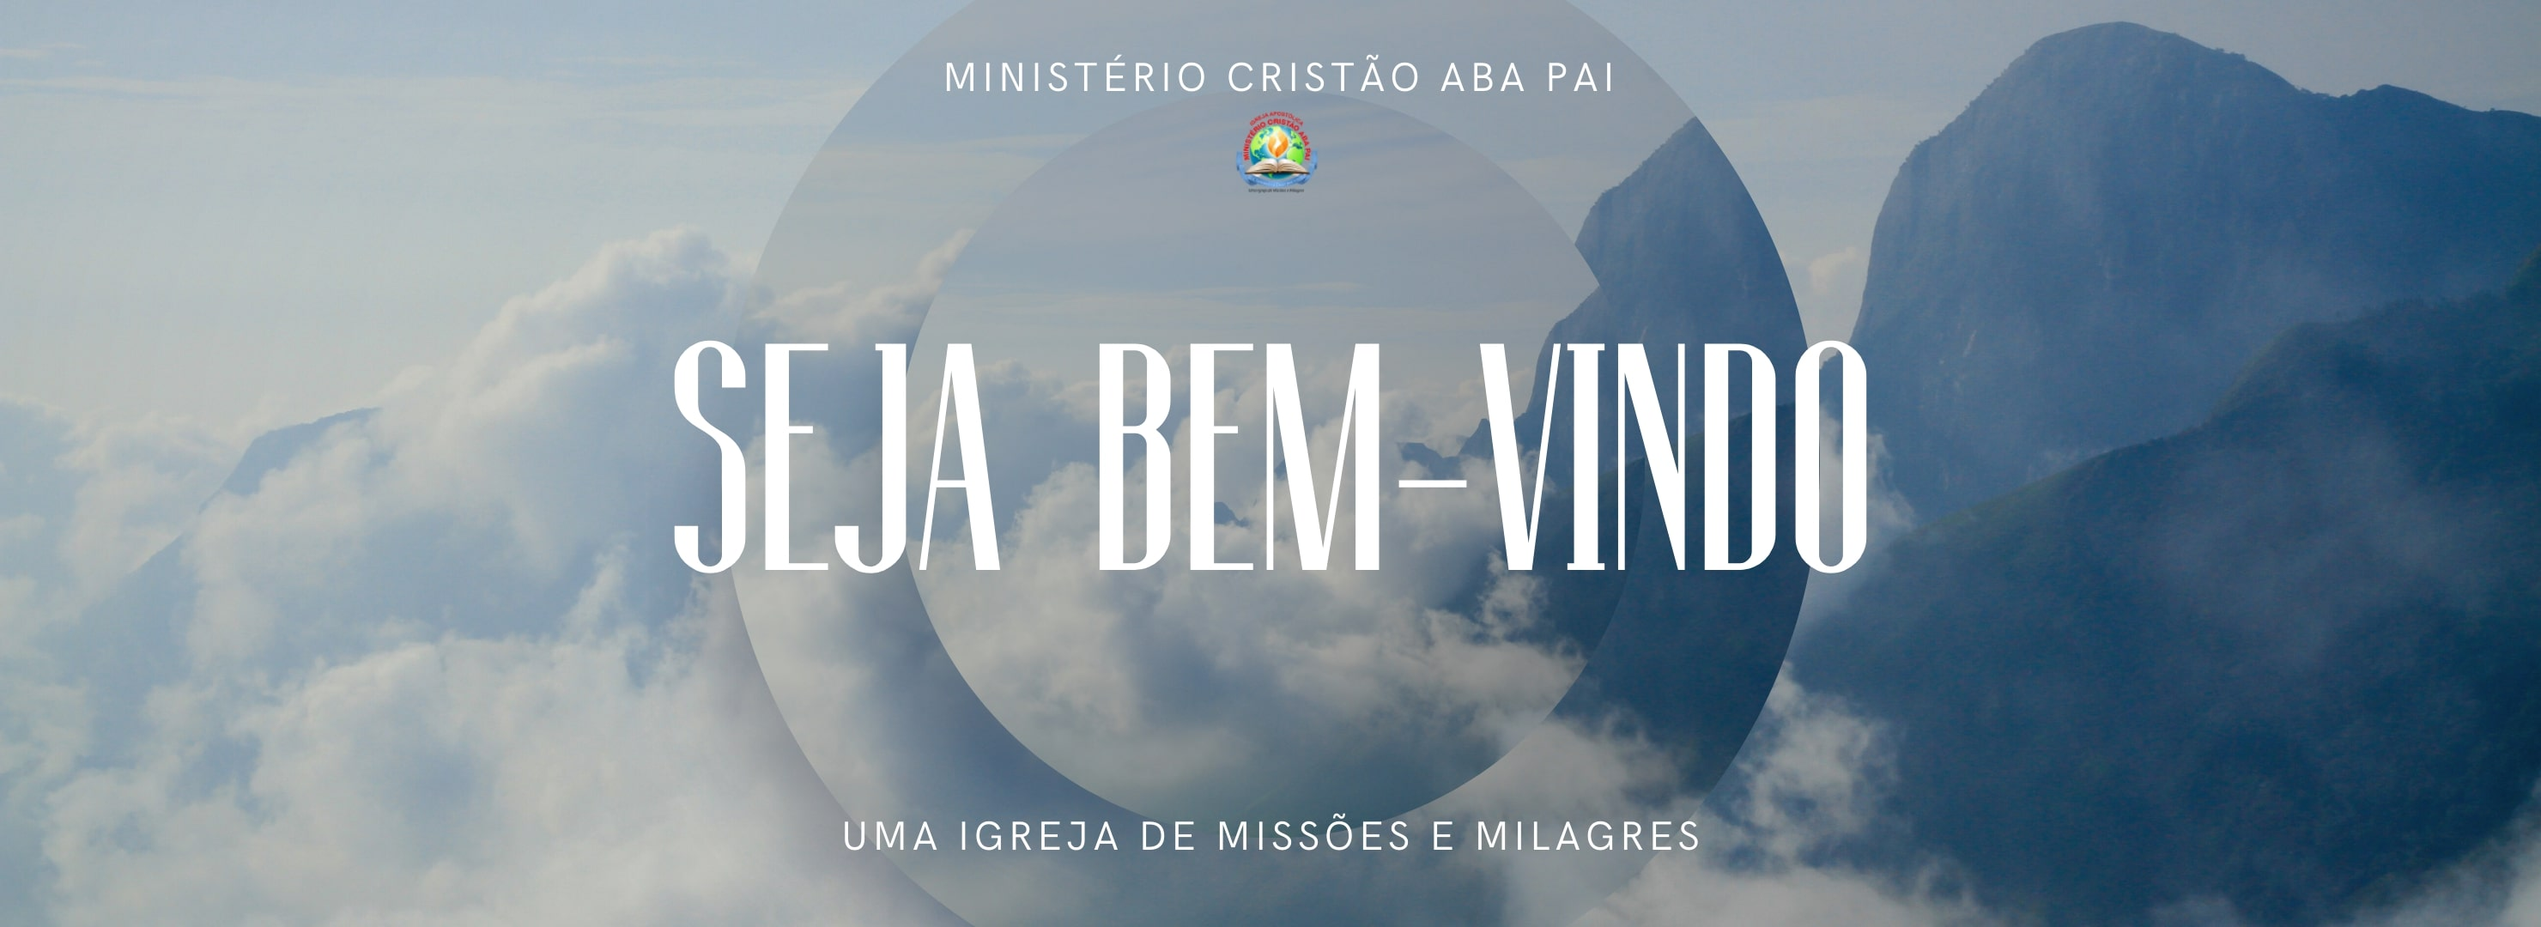
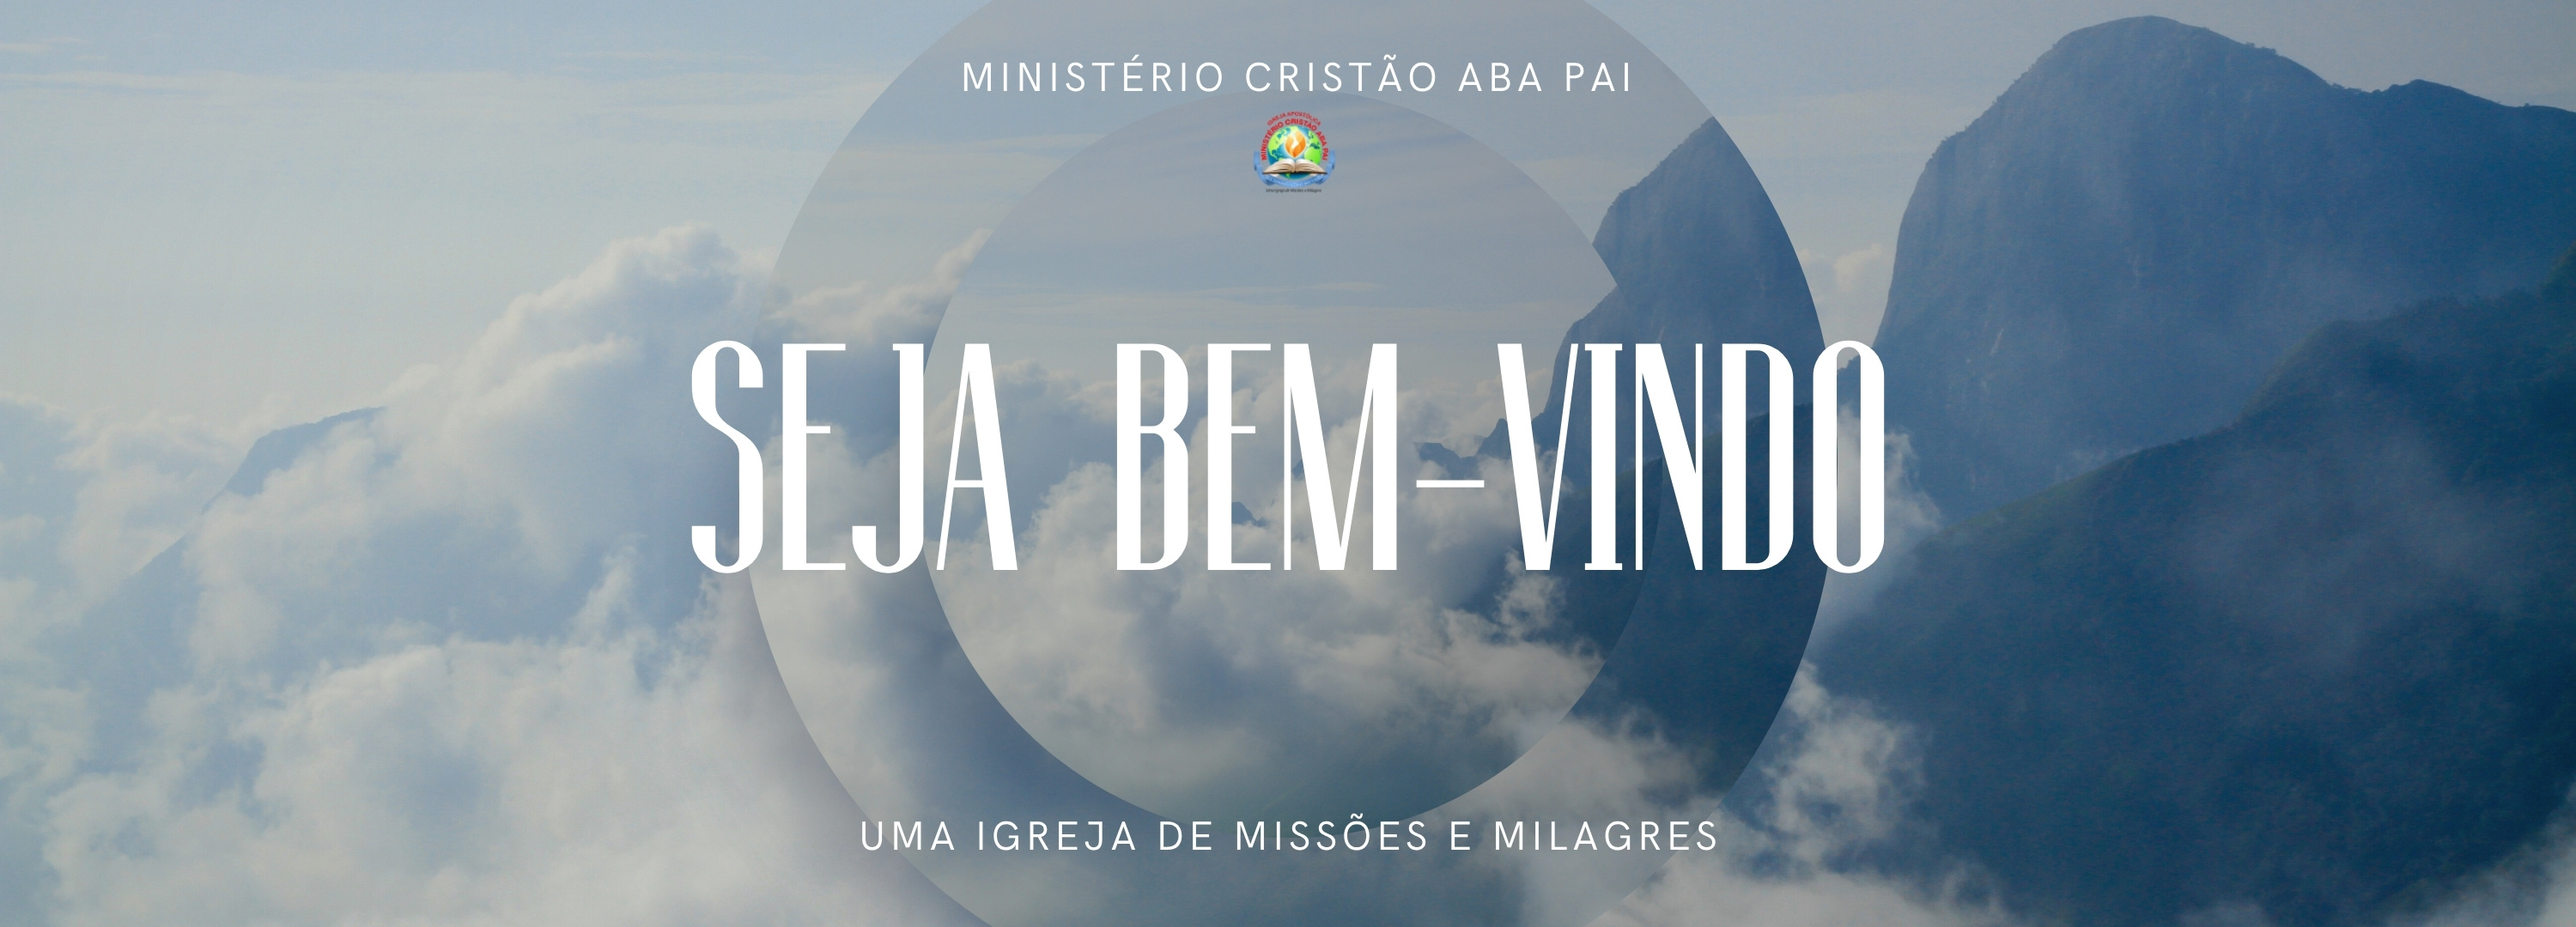
feat: customize carousel images

diff --git a/src/app/pages/home/carousel/carousel.component.ts b/src/app/pages/home/carousel/carousel.component.ts
@@ -1,11 +1,100 @@
-import { Component, CUSTOM_ELEMENTS_SCHEMA } from '@angular/core';
+import { Component, CUSTOM_ELEMENTS_SCHEMA, OnInit, inject } from '@angular/core';
+import { ActivatedRoute } from '@angular/router';
+import { CommonModule } from '@angular/common';
+import { CarouselImage } from '../../../services/carousel.service';
 
 @Component({
     selector: 'app-carousel',
     standalone: true,
-    imports: [],
+    imports: [CommonModule],
     templateUrl: './carousel.component.html',
     styleUrl: './carousel.component.scss',
     schemas: [CUSTOM_ELEMENTS_SCHEMA],
 })
-export class CarouselComponent {}
+export class CarouselComponent implements OnInit {
+    images: CarouselImage[] = [];
+
+    loading = true;
+
+    error = '';
+
+    private route = inject(ActivatedRoute);
+
+    private dragStartTime = 0;
+
+    private dragStartX = 0;
+
+    private dragStartY = 0;
+
+    private isDragging = false;
+
+    ngOnInit(): void {
+        // Check if data was resolved during SSR
+        const resolved = this.route.snapshot.data['carouselImages'] as
+            | CarouselImage[]
+            | undefined;
+        if (resolved) {
+            this.images = resolved;
+            this.loading = false;
+        } else {
+            this.loadCarouselImages();
+        }
+    }
+
+    private loadCarouselImages(): void {
+        // This would be used if no SSR data is available
+        // For now, we'll use the resolved data
+        this.loading = false;
+    }
+
+    onImageMouseDown(image: CarouselImage, event: MouseEvent): void {
+        this.dragStartTime = Date.now();
+        this.dragStartX = event.clientX;
+        this.dragStartY = event.clientY;
+        this.isDragging = false;
+    }
+
+    onImageTouchStart(image: CarouselImage, event: TouchEvent): void {
+        this.dragStartTime = Date.now();
+        this.dragStartX = event.touches[0].clientX;
+        this.dragStartY = event.touches[0].clientY;
+        this.isDragging = false;
+    }
+
+    onImageMouseUp(image: CarouselImage, event: MouseEvent): void {
+        this.handleClickOrDrag(image, event.clientX, event.clientY);
+    }
+
+    onImageTouchEnd(image: CarouselImage, event: TouchEvent): void {
+        if (event.changedTouches.length > 0) {
+            this.handleClickOrDrag(
+                image,
+                event.changedTouches[0].clientX,
+                event.changedTouches[0].clientY,
+            );
+        }
+    }
+
+    private handleClickOrDrag(image: CarouselImage, endX: number, endY: number): void {
+        const dragDuration = Date.now() - this.dragStartTime;
+        const dragDistance = Math.sqrt(
+            Math.pow(endX - this.dragStartX, 2) + Math.pow(endY - this.dragStartY, 2),
+        );
+
+        // Consider it a click if:
+        // 1. Duration is less than 300ms (quick interaction)
+        // 2. Distance moved is less than 10px (minimal movement)
+        // 3. Not already detected as dragging
+        const isClick = dragDuration < 300 && dragDistance < 10 && !this.isDragging;
+
+        if (isClick && image && image.linkUrl) {
+            this.openLink(image.linkUrl);
+        }
+    }
+
+    openLink(url: string): void {
+        if (url) {
+            window.open(url, '_blank');
+        }
+    }
+}

diff --git a/src/app/pages/home/carousel/carousel.component.html b/src/app/pages/home/carousel/carousel.component.html
@@ -1,25 +1,59 @@
-<swiper-container
-  style="
-    --swiper-navigation-color: #fff;
-    --swiper-navigation-size: 25px;
-    --swiper-navigation-sides-offset: 25px;
-  "
-  loop="true"
-  navigation="true"
-  pagination="true"
-  autoplay-delay="6000"
-  autoplay-disable-on-interaction="false"
->
-  <swiper-slide>
-    <div
-      class="slider-item"
-      style="background-image: url('assets/capa_welcome_wide.jpg')"
-    ></div>
-  </swiper-slide>
-  <swiper-slide>
-    <div
-      class="slider-item"
-      style="background-image: url('assets/tvabapaibanner2.jpg')"
-    ></div>
-  </swiper-slide>
-</swiper-container>
+<div>
+  <div *ngIf="loading" class="text-center py-8">
+    <p>Carregando carrossel...</p>
+  </div>
+
+  <div *ngIf="error" class="text-center py-8 text-red-600">
+    <p>{{ error }}</p>
+  </div>
+
+  <swiper-container
+    *ngIf="!loading && !error"
+    style="
+      --swiper-navigation-color: #fff;
+      --swiper-navigation-size: 25px;
+      --swiper-navigation-sides-offset: 25px;
+    "
+    loop="true"
+    navigation="true"
+    pagination="true"
+    autoplay-delay="6000"
+    autoplay-disable-on-interaction="false"
+    allow-touch-move="true"
+    touch-start-prevent-default="false"
+  >
+    <swiper-slide *ngFor="let image of images; let i = index">
+      <div
+        class="slider-item"
+        [style.background-image]="'url(' + image.imageUrl + ')'"
+        [class.cursor-pointer]="image.linkUrl"
+        (mousedown)="onImageMouseDown(image, $event)"
+        (mouseup)="onImageMouseUp(image, $event)"
+        (touchstart)="onImageTouchStart(image, $event)"
+        (touchend)="onImageTouchEnd(image, $event)"
+      ></div>
+    </swiper-slide>
+  </swiper-container>
+
+  <!-- Fallback to static images if no dynamic images are available -->
+  <swiper-container
+    *ngIf="!loading && !error && images.length === 0"
+    style="
+      --swiper-navigation-color: #fff;
+      --swiper-navigation-size: 25px;
+      --swiper-navigation-sides-offset: 25px;
+    "
+    loop="true"
+    navigation="true"
+    pagination="true"
+    autoplay-delay="6000"
+    autoplay-disable-on-interaction="false"
+  >
+    <swiper-slide>
+      <div
+        class="slider-item"
+        style="background-image: url('assets/capa_welcome_wide.jpg')"
+      ></div>
+    </swiper-slide>
+  </swiper-container>
+</div>

diff --git a/src/app/services/carousel.service.ts b/src/app/services/carousel.service.ts
@@ -1,0 +1,61 @@
+import {
+    Injectable,
+    inject,
+    PLATFORM_ID,
+    TransferState,
+    makeStateKey,
+} from '@angular/core';
+import { HttpClient } from '@angular/common/http';
+import { isPlatformServer } from '@angular/common';
+import { Observable, of } from 'rxjs';
+import { shareReplay, tap } from 'rxjs/operators';
+import { environment } from '../shared/environments/environment';
+
+export interface CarouselImage {
+    id: number;
+    imageUrl: string;
+    linkUrl?: string;
+    position: number;
+    isActive: boolean;
+    createdAt: string;
+    updatedAt: string;
+}
+
+@Injectable({
+    providedIn: 'root',
+})
+export class CarouselService {
+    private http = inject(HttpClient);
+    private transferState = inject(TransferState);
+    private platformId = inject(PLATFORM_ID);
+    private apiUrl = environment.clientApiBaseUrl;
+    private STATE_KEY = makeStateKey<CarouselImage[]>('carousel_images');
+
+    private images$?: Observable<CarouselImage[]>;
+
+    getImages(): Observable<CarouselImage[]> {
+        if (this.images$) return this.images$;
+
+        const cached = this.transferState.get(
+            this.STATE_KEY,
+            null as unknown as CarouselImage[] | null,
+        );
+        if (cached) {
+            this.transferState.remove(this.STATE_KEY);
+            this.images$ = of(cached).pipe(shareReplay(1));
+            return this.images$;
+        }
+
+        this.images$ = this.http
+            .get<CarouselImage[]>(`${this.apiUrl}/carousel-images`)
+            .pipe(
+                tap((images) => {
+                    if (isPlatformServer(this.platformId)) {
+                        this.transferState.set(this.STATE_KEY, images);
+                    }
+                }),
+                shareReplay(1),
+            );
+        return this.images$;
+    }
+}

diff --git a/src/app/pages/home/whatsapp-button/whatsapp-button.component.ts b/src/app/pages/home/whatsapp-button/whatsapp-button.component.ts
@@ -1,5 +1,6 @@
 import { CommonModule } from '@angular/common';
-import { Component } from '@angular/core';
+import { Component, OnInit, inject } from '@angular/core';
+import { WebsiteSettingsService } from '../../../services/website-settings.service';
 
 @Component({
     selector: 'app-whatsapp-button',
@@ -7,12 +8,24 @@ import { Component } from '@angular/core';
     imports: [CommonModule],
     templateUrl: './whatsapp-button.component.html',
 })
-export class WhatsAppButtonComponent {
+export class WhatsAppButtonComponent implements OnInit {
+    private websiteSettingsService = inject(WebsiteSettingsService);
+
     private phoneNumber = '5584998305218';
 
-    private defaultMessage = encodeURIComponent(
-        'Olá, poderia me ajudar?',
-    );
+    private defaultMessage = encodeURIComponent('Olá, poderia me ajudar?');
+
+    ngOnInit(): void {
+        this.loadWebsiteSettings();
+    }
+
+    private loadWebsiteSettings(): void {
+        this.websiteSettingsService.getSettings().subscribe((settings) => {
+            if (settings.whatsapp) {
+                this.phoneNumber = settings.whatsapp;
+            }
+        });
+    }
 
     openWhatsApp(): void {
         const whatsappUrl = `https://wa.me/${this.phoneNumber}?text=${this.defaultMessage}`;

diff --git a/src/app/app.routes.ts b/src/app/app.routes.ts
@@ -1,6 +1,7 @@
 import { Routes } from '@angular/router';
 import { websiteSettingsResolver } from './resolvers/website-settings.resolver';
 import { scheduleResolver } from './resolvers/schedule.resolver';
+import { carouselResolver } from './resolvers/carousel.resolver';
 
 export const routes: Routes = [
     {
@@ -9,6 +10,9 @@ export const routes: Routes = [
             import('./pages/home/home-page.component').then(
                 (mod) => mod.HomePageComponent,
             ),
+        resolve: {
+            carouselImages: carouselResolver,
+        },
     },
     {
         path: 'ofertas',

diff --git a/src/app/resolvers/carousel.resolver.ts b/src/app/resolvers/carousel.resolver.ts
@@ -1,0 +1,9 @@
+import { ResolveFn } from '@angular/router';
+import { inject } from '@angular/core';
+import { CarouselImage, CarouselService } from '../services/carousel.service';
+
+export const carouselResolver: ResolveFn<CarouselImage[]> = () => {
+    const service = inject(CarouselService);
+    return service.getImages();
+};
+

diff --git a/src/app/services/website-settings.service.ts b/src/app/services/website-settings.service.ts
@@ -20,6 +20,7 @@ export interface WebsiteSettings {
     instagram: string;
     youtube: string;
     twitter: string;
+    whatsapp: string;
     about: string;
     serviceTimes: string;
     aboutWhoWeAre: string;

diff --git a/src/app/pages/home/home-page.component.html b/src/app/pages/home/home-page.component.html
@@ -1,5 +1,5 @@
 <main>
-  <app-carousel />
+  <app-carousel ngSkipHydration />
   <app-weekly-message />
   <app-prayer-session />
   <app-gallery-session />
